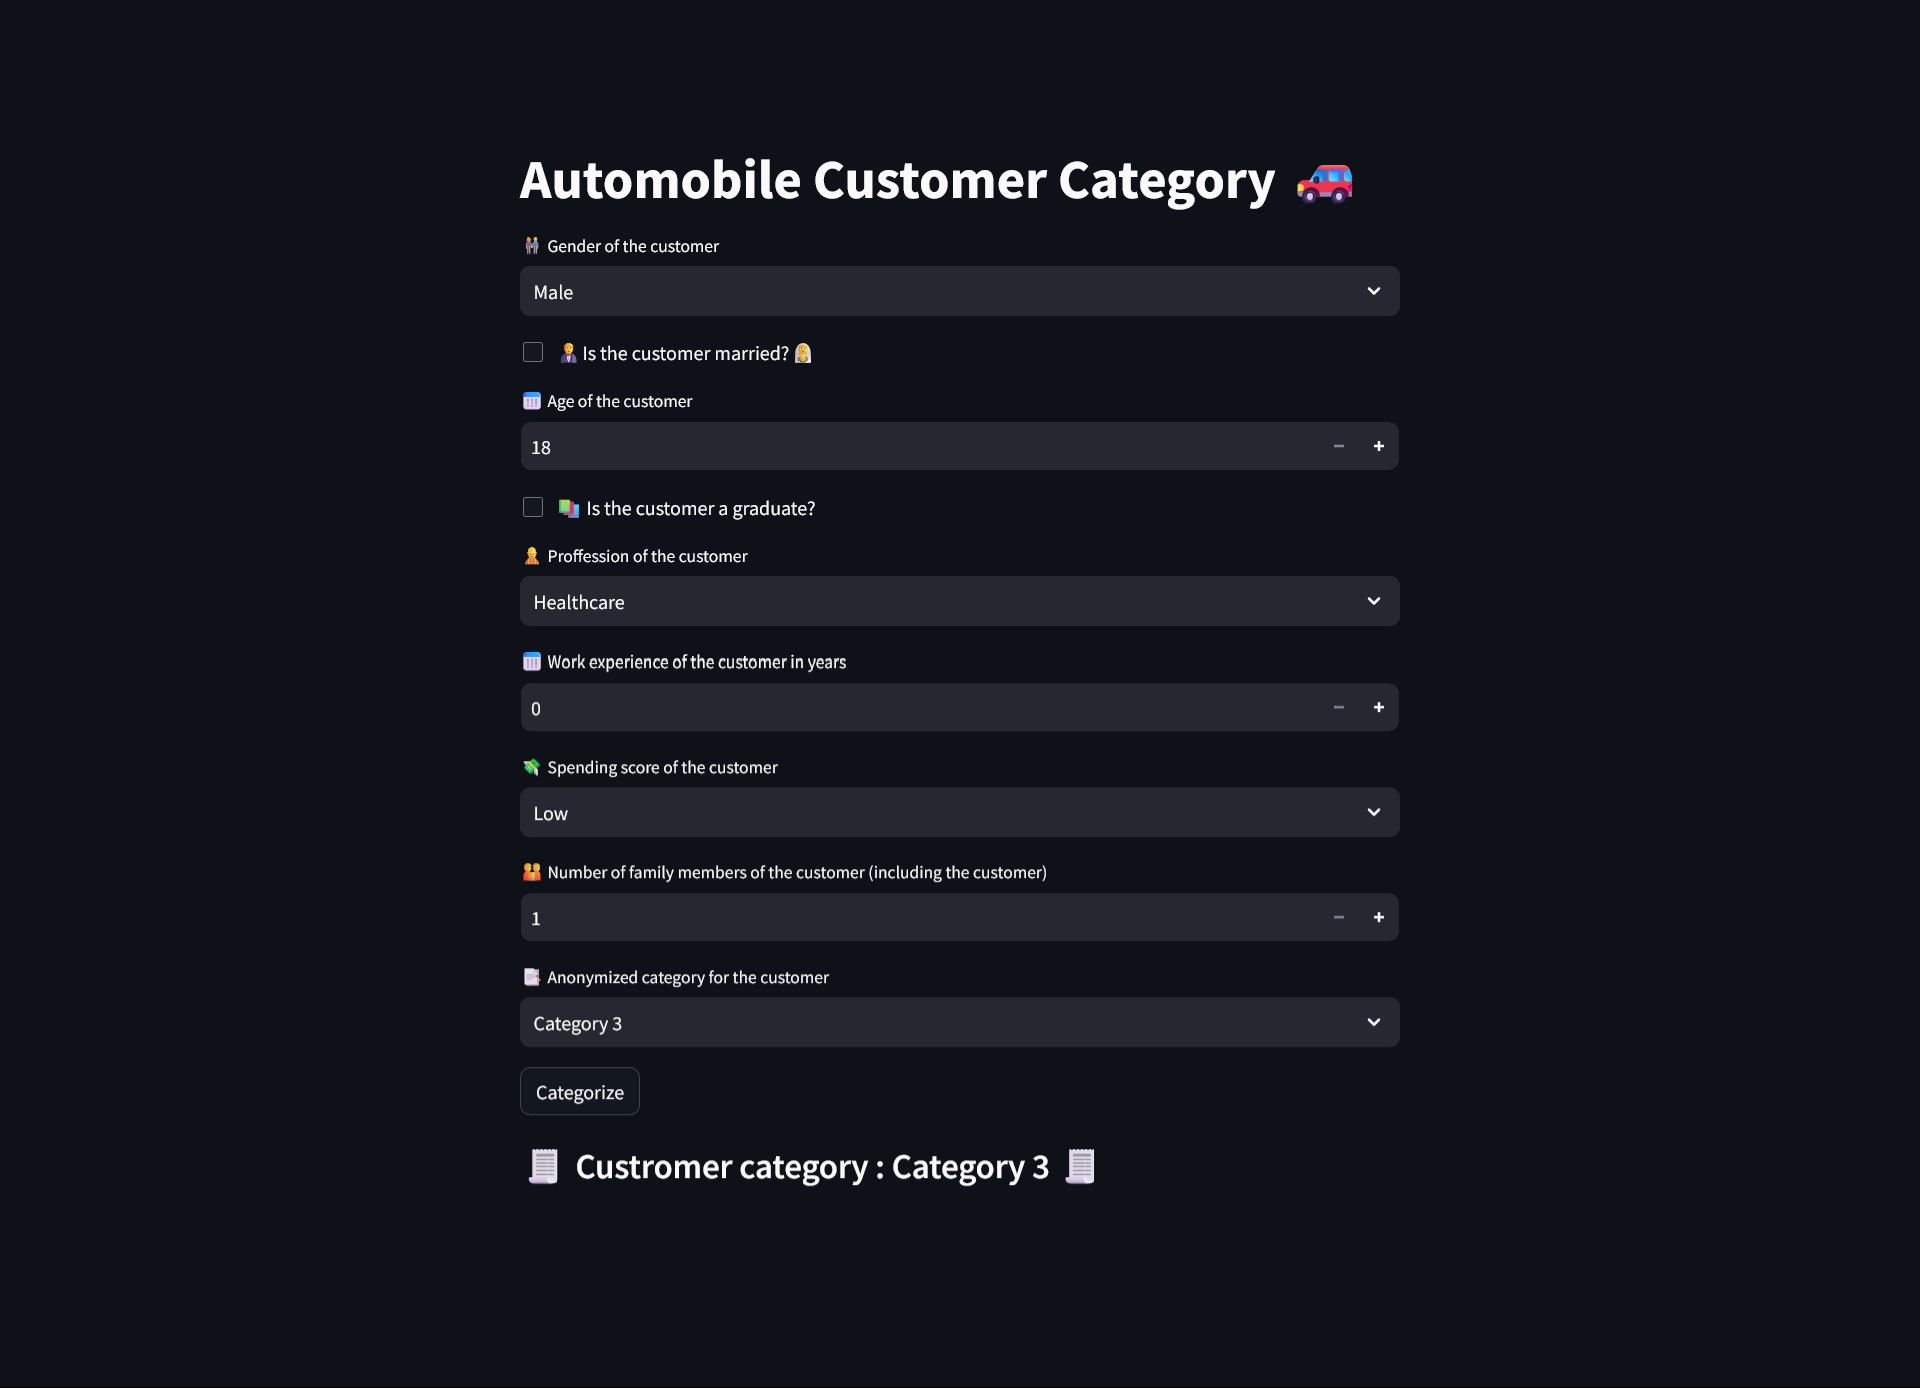
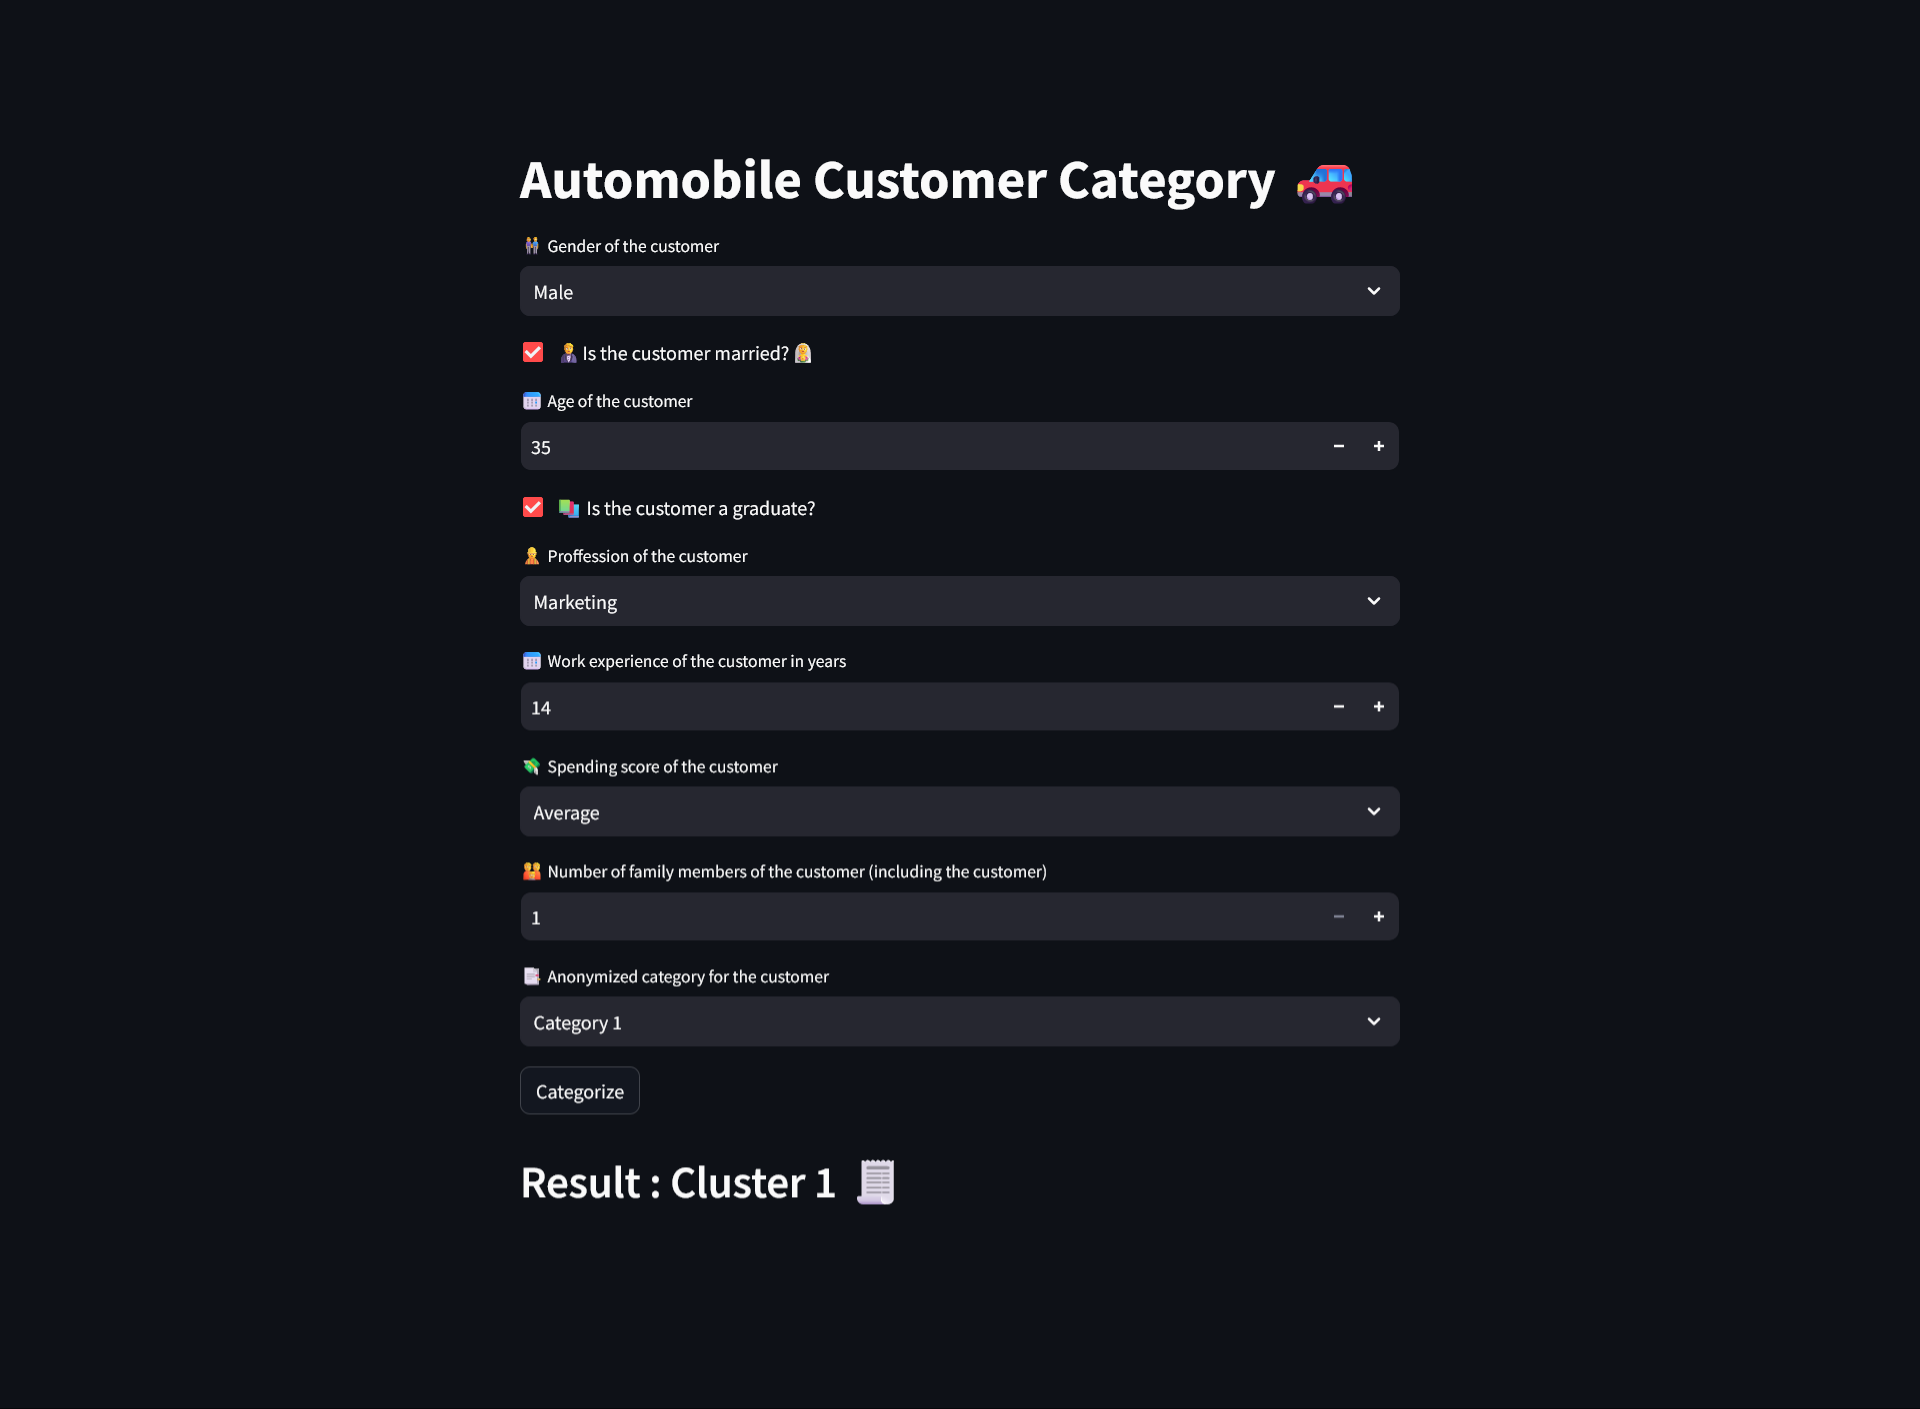
ACS-5 : Connect model to application

Changed region(s): [[0.25, 0.1239, 0.75, 0.8674]]

diff --git a/app/app.py b/app/app.py
@@ -1,27 +1,60 @@
 import streamlit as st
-from additional_info import spendingScores,professions,categories
+import pickle
 
+professions = [
+    "Healthcare",
+    "Engineer",
+    "Lawyer",
+    "Entertainment",
+    "Artist",
+    "Executive",
+    "Doctor",
+    "Homemaker",
+    "Marketing"
+    ]
+
+spendingScores = ["Low",
+                  "Average",
+                  "High"
+                  ]
+
+categories = ["Category 1",
+              "Category 2",
+              "Category 3",
+              "Category 4",
+              "Category 5",
+              "Category 6"
+              ]
+
+with open("pkl/one_hot_encoder.pkl", 'rb') as file:
+    encoder = pickle.load(file)
+
+with open("pkl/kmeans.pkl", 'rb') as file:
+    kmeans = pickle.load(file)
+
+with open("pkl/scaler.pkl", 'rb') as file:
+    scaler = pickle.load(file)
 
 class Form:
     def __init__(self):
-        self.gender = st.selectbox("👫 Gender of the customer",options=["Male","Female"])
+        self.gender = st.selectbox("👫 Gender of the customer", options=["Male", "Female"])
         self.married = st.checkbox("🤵Is the customer married?👰")
         self.age = st.number_input('📅 Age of the customer', min_value=18,
-                                       max_value=110,
-                                       value=18, step=1)
+                                   max_value=110,
+                                   value=18, step=1)
         self.graduate = st.checkbox("📚 Is the customer a graduate?")
-        self.profession = st.selectbox("👷 Proffession of the customer",options=professions)
+        self.profession = st.selectbox("👷 Proffession of the customer", options=professions)
         self.workExperience = st.number_input('📅 Work experience of the customer in years', min_value=0,
-                                       max_value=110,
-                                       value=0, step=1)
-        self.spendingScore = st.selectbox("💸 Spending score of the customer",options=spendingScores)
+                                              max_value=110,
+                                              value=0, step=1)
+        self.spendingScore = st.selectbox("💸 Spending score of the customer", options=spendingScores)
 
-        self.workExperience = st.number_input('👪 Number of family members of the customer (including the customer)', min_value=1,
-                                       max_value=20,
-                                       value=1, step=1)
-        
-        self.category = st.selectbox('📑 Anonymized category for the customer',options=categories)
+        self.familyMembersNumber = st.number_input(
+            '👪 Number of family members of the customer (including the customer)', min_value=1,
+            max_value=20,
+            value=1, step=1)
 
+        self.category = st.selectbox('📑 Anonymized category for the customer', options=categories)
 
         self.submit = st.button('Categorize')
 
@@ -32,9 +65,27 @@ def main():
     form = Form()
 
     if form.submit:
-        st.subheader(f"🧾 Custromer category : {form.category} 🧾")
+        form.married = {True: 1, False: 0}[form.married]
+        form.graduate = {True: 1, False: 0}[form.graduate]
+        form.gender = {"Female": 1, "Male": 0}[form.gender]
+        form.spendingScore = {"Low": 0, "Average": 1, "High": 2}[form.spendingScore]
+        proffession_category = encoder.transform([[form.profession, form.category]]).toarray()[0]
+        data = [
+            *proffession_category,
+            form.gender,
+            form.married,
+            form.age,
+            form.graduate,
+            form.workExperience,
+            form.spendingScore,
+            form.familyMembersNumber
+        ]
+
+        scaled = scaler.transform([data])
+        result = kmeans.predict(scaled)
 
 
+        st.header(f" Result : Cluster {result[0]} 🧾")
 
 
 if __name__ == '__main__':
